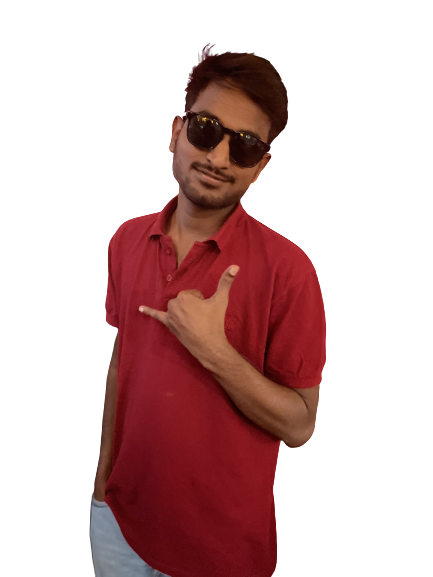
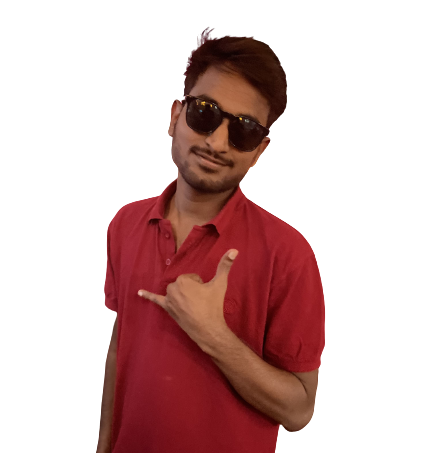
color changes in project section

Changed region(s): [[0.1806, 0.0618, 0.7523, 1.0], [0.662, 0.1545, 0.6921, 0.2163], [0.6319, 0.1236, 0.662, 0.1545]]

diff --git a/src/Components/ProjectsSection.jsx b/src/Components/ProjectsSection.jsx
@@ -19,7 +19,7 @@ const ProjectsSection = () => {
           </span>
           <hr className="w-1 h-8 mx-auto my-4 bg-teal-500 border-0 rounded sm:hidden" />
 
-          <div className="inline-block sm:flex">
+          <div className="inline-block sm:flex gap-4">
             <IoLogoGithub size={25} />
             <IoLogoInstagram size={25} />
             <IoLogoLinkedin size={25} />
@@ -31,7 +31,7 @@ const ProjectsSection = () => {
           {Projects_Deatils.map((project, idx) => {
             return (
               <div
-                className="bg-teal-500 rounded-md text-base text-white p-2"
+                className="bg-teal-600 rounded-md text-base text-white p-2"
                 key={idx}
               >
                 <h3 className="text-center font-bold text-lg">

diff --git a/src/Components/HeroSection.jsx b/src/Components/HeroSection.jsx
@@ -1,6 +1,6 @@
 import React from "react";
 import Image from "next/image";
-import heroImage from "../../public/rahul_transparent_crop.png";
+import heroImage from "../../public/rahul_transparent.png";
 import { IoLogoGithub, IoLogoLinkedin } from "react-icons/io";
 import { GoLinkExternal } from "react-icons/go";
 import { My_Github_url, My_Linked_url } from "@/Constent/Constents";
